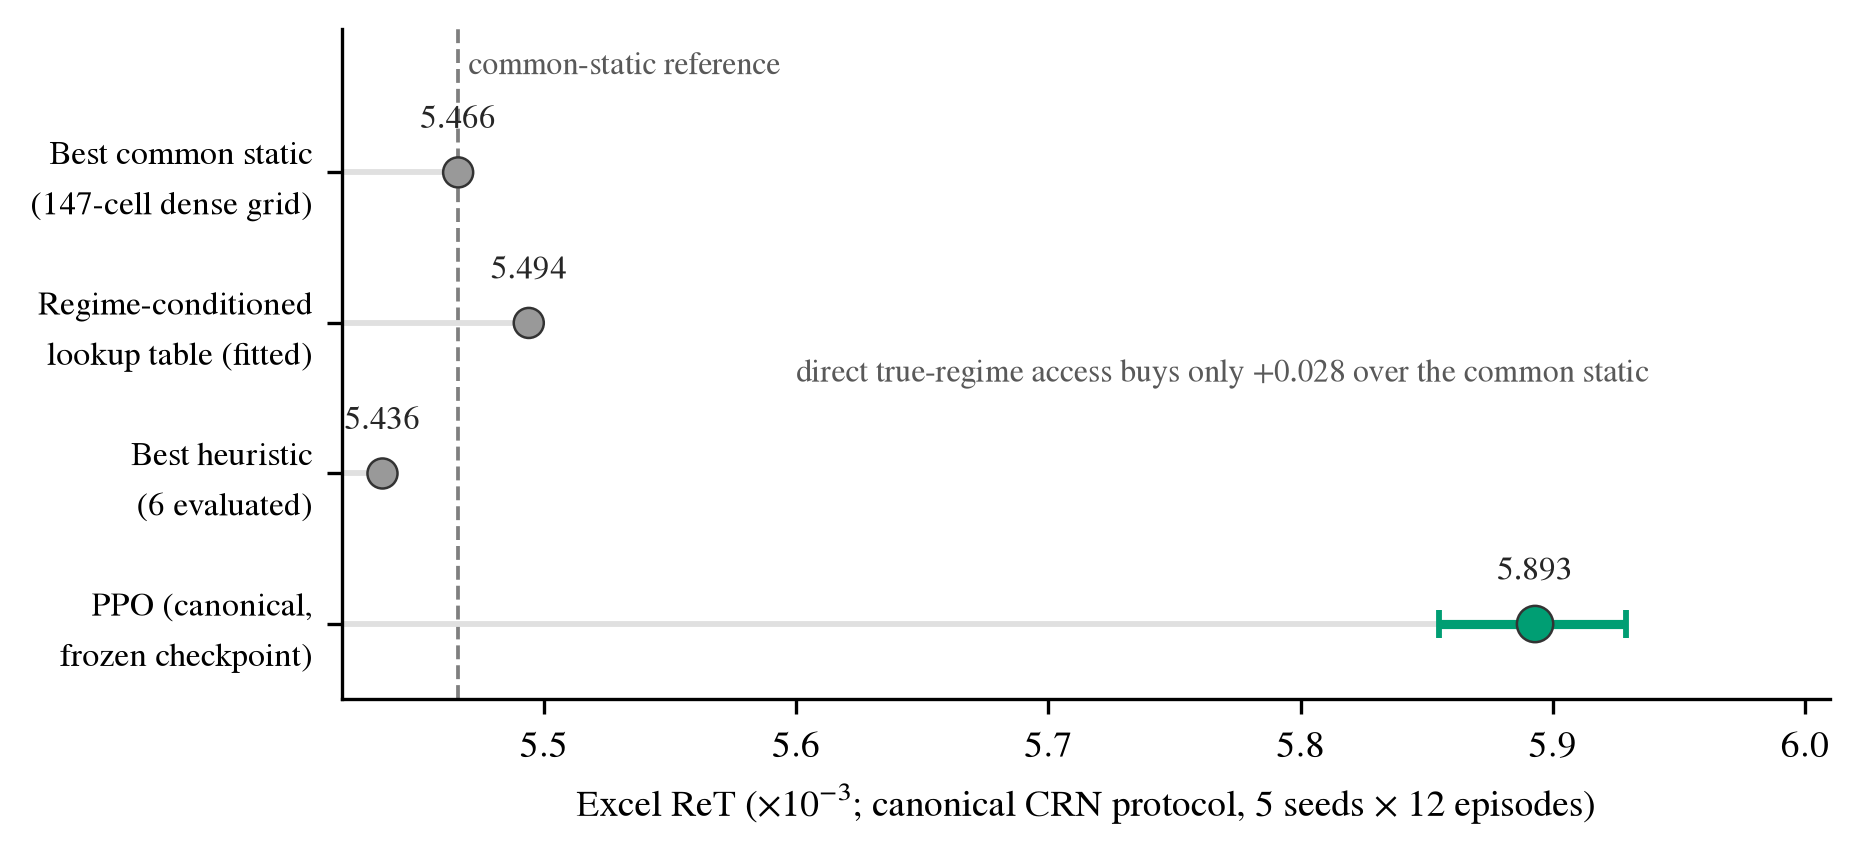
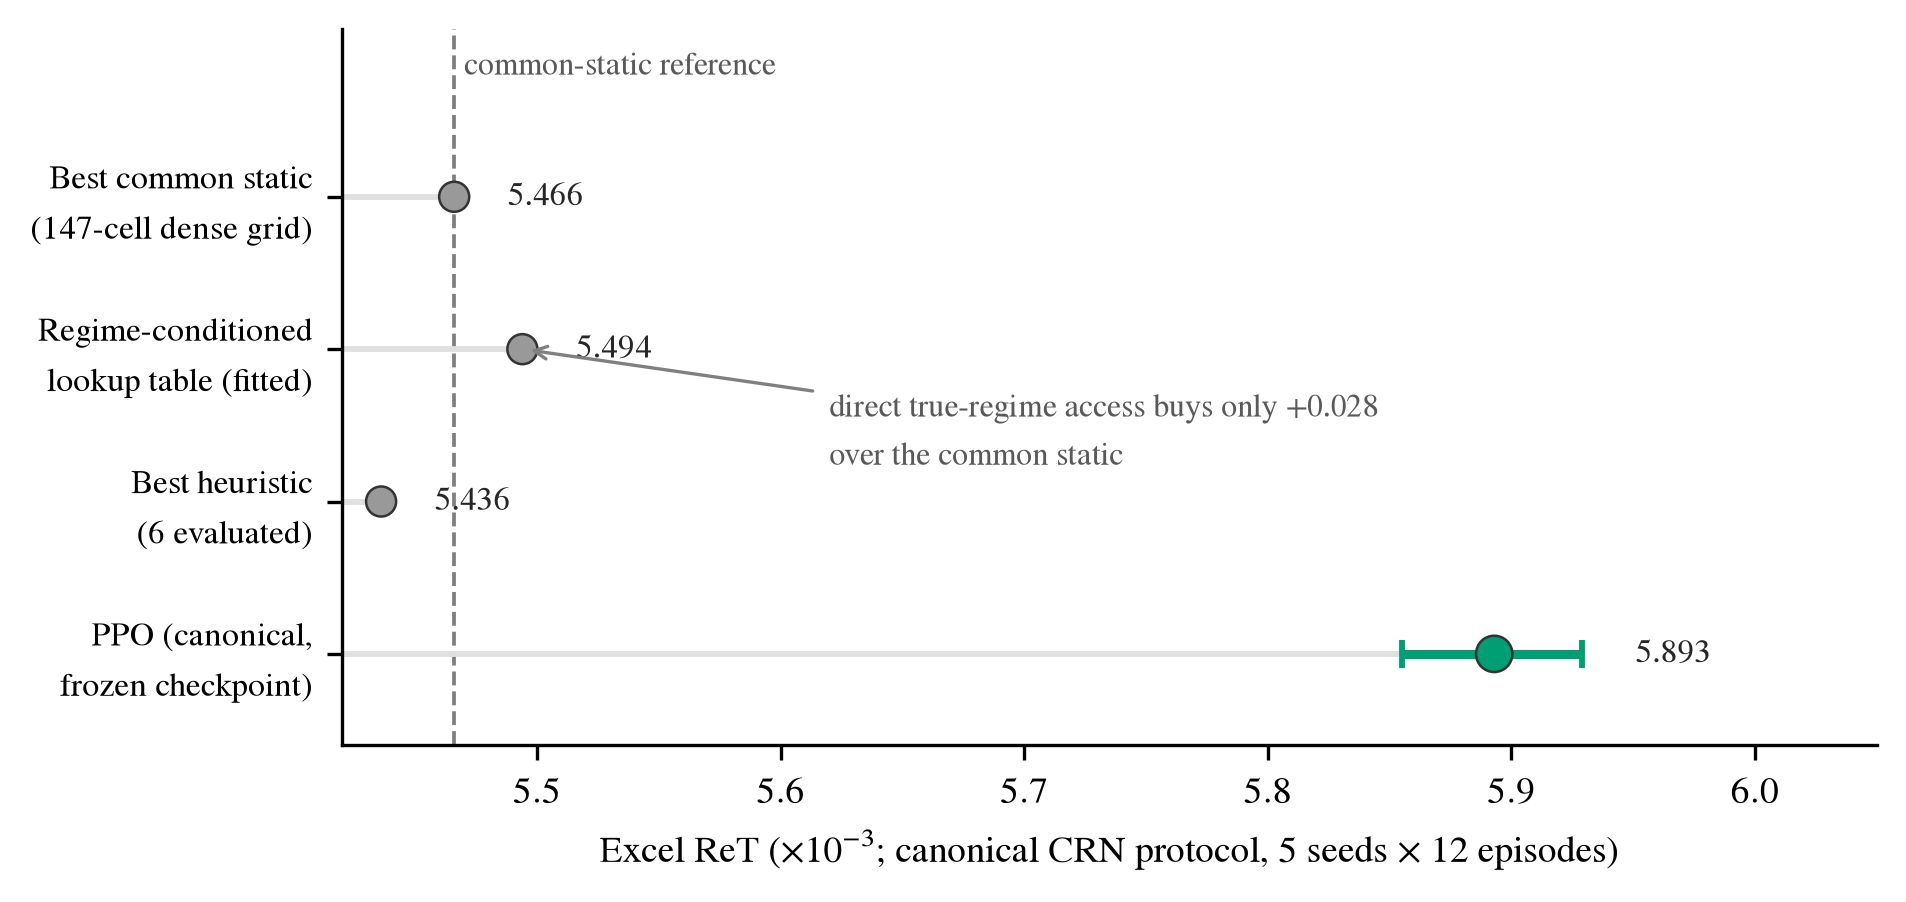
Visual review pass over the compiled PDF: fix five typographic/figure defects
Full page-by-page inspection of the 50-page compiled manuscript found and
fixed:
- 01_introduction.tex: seven pandoc escape artifacts (-\/-\/-) rendering as
  literal triple hyphens instead of em-dashes; Cobb-Douglas en-dash likewise.
- 02_related_work.tex Table 1: "Sometimes" overflowed its 0.10-linewidth
  p-columns, gluing adjacent cells together ("SometimesSometimes"); switched
  to footnotesize with 0.125-linewidth columns.
- 03_methodology.tex Table 5: raggedright columns so short labels ("Track B
  canonical") stop full-justify stretching.
- fig17_control_loop: "eval" arrow label was clipped in the 0.35-unit gap
  between the PPO and Eval boxes; removed (the box title labels the edge)
  and gave the connector an arrowhead.
- fig3_gap_decomposition: the PPO value label "5.893" was struck through by
  the CI whisker cap; label now anchors past the whisker end.

Recompiled clean; retired-claims guard passes; all fixes re-verified
visually in the new PDF.

diff --git a/docs/manuscript_current/submission/elsevier/sections/01_introduction.tex b/docs/manuscript_current/submission/elsevier/sections/01_introduction.tex
@@ -2,8 +2,8 @@
 \section{Introduction}\label{1-introduction}}
 
 Supply chain resilience (SCRES) has become a central concern in
-operations management as global disruptions-\/-\/-from pandemic-driven
-shutdowns to geopolitical trade barriers-\/-\/-expose the fragility of
+operations management as global disruptions---from pandemic-driven
+shutdowns to geopolitical trade barriers---expose the fragility of
 interconnected logistics networks \cite{ponomarov2009understanding,wieland2021two,hosseini2019review}. Over the past decade, reinforcement
 learning (RL) has emerged as a promising paradigm for adaptive
 decision-making in supply chain management (SCM). Comprehensive reviews
@@ -28,8 +28,8 @@ multi-agent PPO (MAPPO) for dynamic reconfiguration of a supply chain
 system-of-systems under disruption risks, with macro-level actions such
 as filling, repairing, and recruiting disrupted nodes. However, their
 problem is strategic topology redesign on an abstract network,
-fundamentally different from the weekly operational control-\/-\/-over
-assembly shifts, inventory quantities, and transport dispatch-\/-\/-that
+fundamentally different from the weekly operational control---over
+assembly shifts, inventory quantities, and transport dispatch---that
 characterizes our setting. The gap addressed here is not whether RL can
 be applied to supply chains, but whether RL can deliver resilient
 operational control inside a thesis-grounded military supply chain whose
@@ -41,11 +41,11 @@ and Garrido et al.~\cite{garrido2024ijpr,garrido2024iccl}. The PhD thesis develo
 MATLAB/Simulink, establishing quantitative resilience metrics
 ($\mathrm{Re^{T}}$) through 90 static configurations and data-mining
 association rules. Garrido et al.~\cite{garrido2024ijpr} subsequently proposed a
-Cobb-\/-Douglas factory resilience index linking production strategies
+Cobb--Douglas factory resilience index linking production strategies
 to quantitative resilience measurement. Garrido et al.~\cite{garrido2024iccl}
-explicitly called for the integration of AI algorithms-\/-\/-identifying
+explicitly called for the integration of AI algorithms---identifying
 neural networks, KANs, and reinforcement learning as the most suitable
-candidates-\/-\/-into simulation-based SCRES models, arguing that
+candidates---into simulation-based SCRES models, arguing that
 traditional DES frameworks lack endogenous learning mechanisms capable
 of adaptation across successive disruption events. The present study
 operationalizes the operational-control part of this proposal: we rebuild

diff --git a/scripts/build_manuscript_figures.py b/scripts/build_manuscript_figures.py
@@ -297,9 +297,11 @@ def fig3_gap_decomposition() -> None:
         ax.vlines(cap, y[3] - 0.09, y[3] + 0.09, color=GREEN, lw=1.4, zorder=2)
     ax.scatter(vals, y, s=sizes, c=cols, zorder=3, edgecolors="0.2",
                linewidths=0.6)
-    # value labels placed to the RIGHT of each dot (away from y-axis labels)
+    # value labels placed to the RIGHT of each dot (away from y-axis labels);
+    # the PPO label clears the CI whisker cap instead of the dot
     for yi, v in zip(y, vals):
-        ax.text(v + 0.022, yi, f"{v:.3f}", ha="left", va="center",
+        anchor = max(v, ppo_ci[1]) if yi == y[3] else v
+        ax.text(anchor + 0.022, yi, f"{v:.3f}", ha="left", va="center",
                 fontsize=8, color="0.15")
     ax.text(5.470, 3.75, "common-static reference", fontsize=7.6,
             color="0.35", ha="left", va="bottom")
@@ -1299,9 +1301,8 @@ def fig17_control_loop() -> None:
     # r_t: env -> reward (reward flows from env to the reward box)
     arrow((2.6, 2.5), (3.4, 2.0), color="0.4")
     ax.text(2.85, 2.35, "$r_t$", fontsize=8, color="0.4", ha="center", va="center")
-    # policy -> eval (horizontal)
-    arrow((8.6, 2.75), (8.95, 2.75), color=PURPLE, style="-")
-    ax.text(8.78, 2.9, "eval", fontsize=7.0, color=PURPLE, ha="center", va="bottom")
+    # policy -> eval (horizontal; the Eval box title labels the edge itself)
+    arrow((8.6, 2.75), (8.95, 2.75), color=PURPLE)
 
     # bottom footer band: cadence note + Track A/B distinction (no overlap with boxes)
     ax.text(5.0, 0.35, "decision step $t$: every 168 simulated hours (weekly planning cadence)",

diff --git a/docs/manuscript_current/submission/elsevier/sections/02_related_work.tex b/docs/manuscript_current/submission/elsevier/sections/02_related_work.tex
@@ -87,8 +87,9 @@ against dense static frontiers on a thesis-grounded resilience metric.
 \centering
 \caption{Positioning of the present benchmark relative to adjacent literatures. The table is a conceptual positioning matrix over representative papers discussed in this section, not a systematic coding of the full literature.}
 \label{tab:literature_gap}
-\small
-\begin{tabular}{p{0.24\linewidth}>{\centering\arraybackslash}p{0.10\linewidth}>{\centering\arraybackslash}p{0.10\linewidth}>{\centering\arraybackslash}p{0.12\linewidth}>{\centering\arraybackslash}p{0.12\linewidth}>{\centering\arraybackslash}p{0.13\linewidth}}
+\footnotesize
+\setlength{\tabcolsep}{3.5pt}
+\begin{tabular}{p{0.24\linewidth}>{\centering\arraybackslash}p{0.125\linewidth}>{\centering\arraybackslash}p{0.125\linewidth}>{\centering\arraybackslash}p{0.125\linewidth}>{\centering\arraybackslash}p{0.125\linewidth}>{\centering\arraybackslash}p{0.125\linewidth}}
 \toprule
 Stream & Validated DES & SCRES metric & Dense static frontier & Bottleneck action test & Priv.-obs.\ defense \\
 \midrule

diff --git a/docs/manuscript_current/submission/elsevier/sections/03_methodology.tex b/docs/manuscript_current/submission/elsevier/sections/03_methodology.tex
@@ -410,7 +410,7 @@ it.
 \centering
 \caption{Experimental evidence map used in the manuscript.}
 \label{tab:evidence_map}
-\begin{tabular}{p{0.18\linewidth}p{0.38\linewidth}p{0.30\linewidth}}
+\begin{tabular}{>{\raggedright\arraybackslash}p{0.18\linewidth}>{\raggedright\arraybackslash}p{0.38\linewidth}>{\raggedright\arraybackslash}p{0.30\linewidth}}
 \toprule
 Lane & Purpose & Claim supported \\
 \midrule